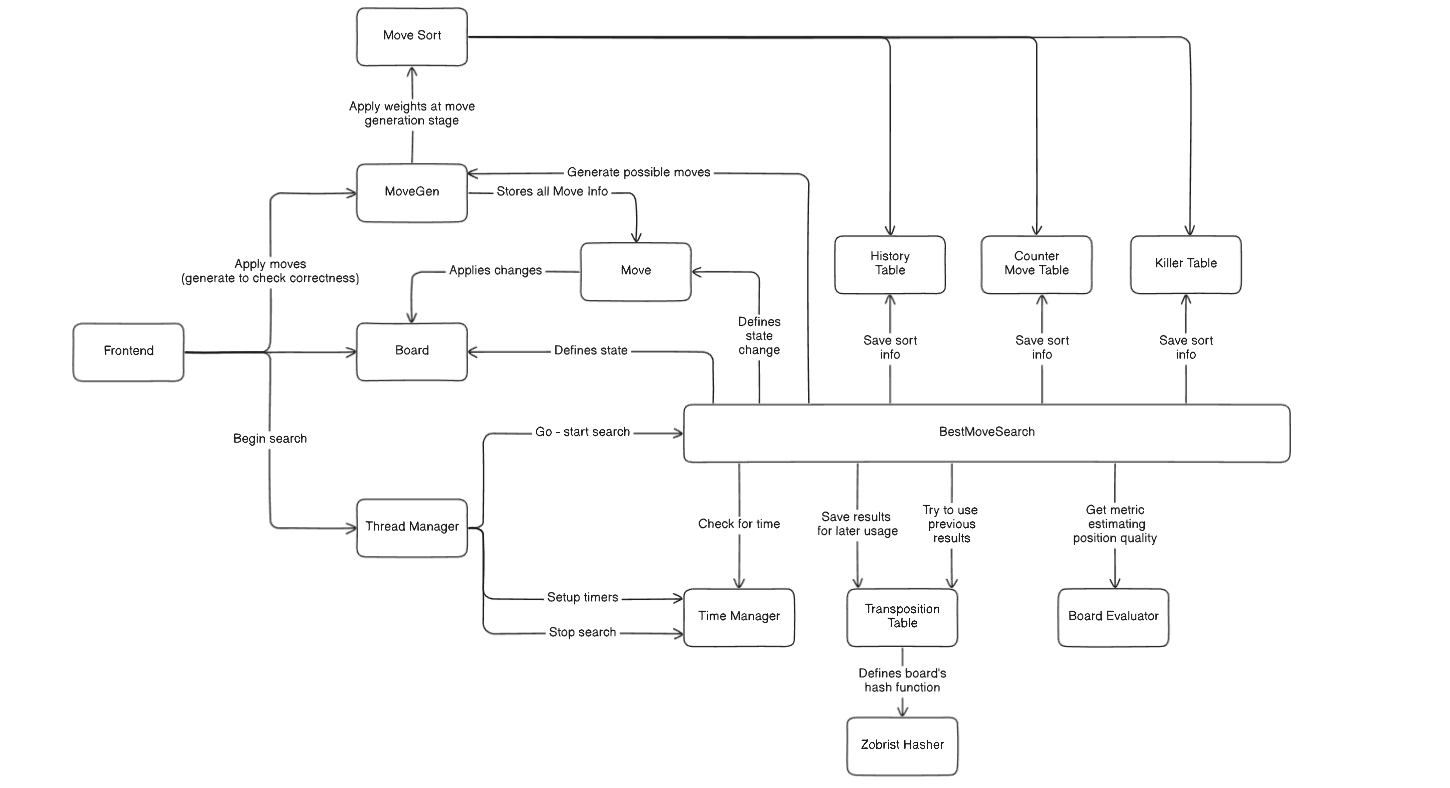
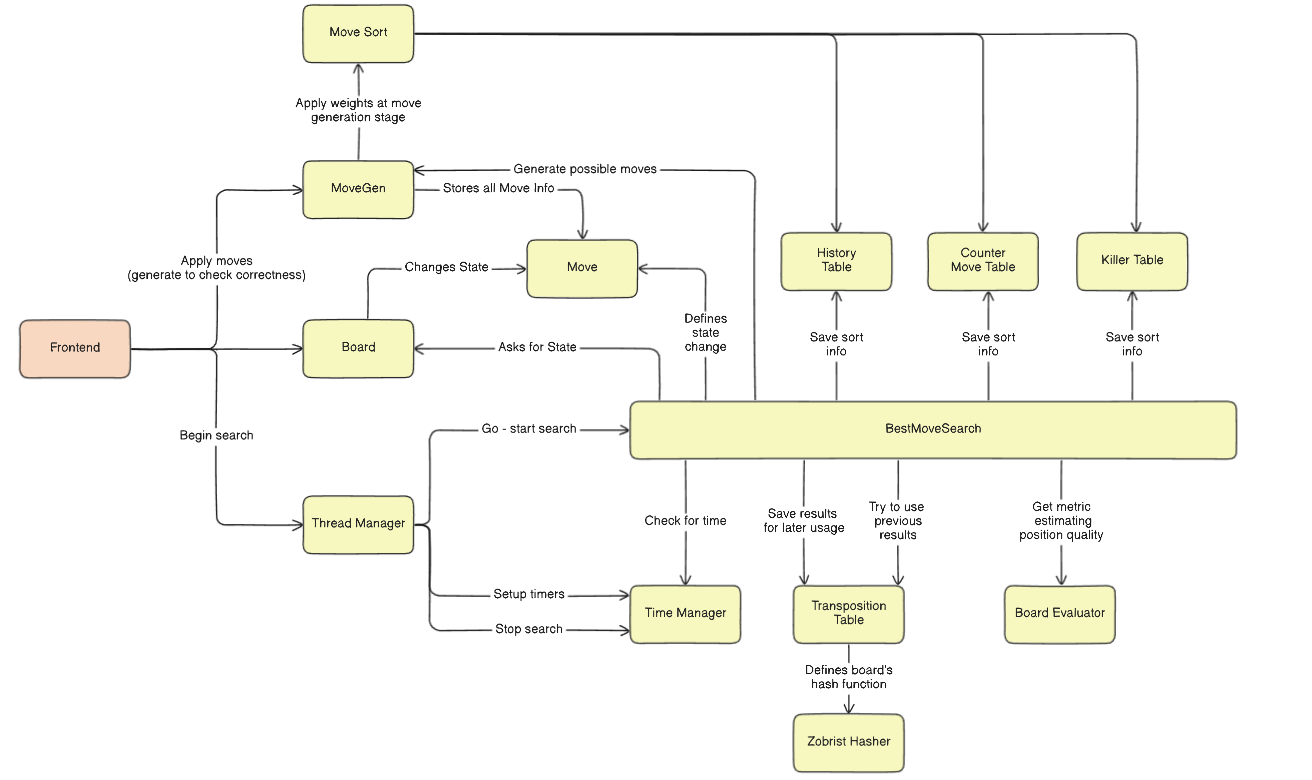
Applied clang-format, updated graphs

diff --git a/src/UCITranslator.cpp b/src/UCITranslator.cpp
@@ -11,8 +11,8 @@
 #include "../include/Search/ZobristHash.h"
 #include "../include/TestsAndDebugging/MoveGenerationTests.h"
 #include "../include/TestsAndDebugging/SearchPerfTester.h"
-#include "../include/ThreadManagement/GameTimeManagerUtils.h"
 #include "../include/TestsAndDebugging/StateReconstructor.h"
+#include "../include/ThreadManagement/GameTimeManagerUtils.h"
 
 UCITranslator::UCICommand UCITranslator::BeginCommandTranslation(std::istream &input)
 {
@@ -37,28 +37,28 @@ UCITranslator::UCICommand UCITranslator::_dispatchCommands(const std::string &bu
 {
     using funcT = UCICommand (UCITranslator::*)(const std::string &);
     static std::unordered_map<std::string, funcT> CommandBuff{
-        {       "uci",          &UCITranslator::_uciResponse},
-        {   "isready",      &UCITranslator::_isReadyResponse},
-        { "setoption",    &UCITranslator::_setoptionResponse},
-        {"ucinewgame",   &UCITranslator::_ucinewgameResponse},
-        {  "position",     &UCITranslator::_positionResponse},
-        {        "go",           &UCITranslator::_goResponse},
-        {      "stop",         &UCITranslator::_stopResponse},
-        {      "quit",         &UCITranslator::_quitResponse},
-        {      "exit",         &UCITranslator::_quitResponse},
-        {      "eval",   &UCITranslator::_evalPositionStatic},
-        {         "d",      &UCITranslator::_displayResponse},
-        {   "display",      &UCITranslator::_displayResponse},
-        {      "disp",      &UCITranslator::_displayResponse},
-        {       "fen",   &UCITranslator::_displayFenResponse},
-        {      "help",  &UCITranslator::_displayHelpResponse},
-        {     "clear",         &UCITranslator::_clearConsole},
-        {     "clean",         &UCITranslator::_clearConsole},
-        {       "cls",         &UCITranslator::_clearConsole},
-        {      "ctpm", &UCITranslator::_calculateTimePerMove}, // Calculate time per move
-        {        "zv",        &UCITranslator::_searchZobrist},
-        { "ponderhit",    &UCITranslator::_ponderhitResponse},
-        {"reconstruct", &UCITranslator::_reconstruct},
+        {        "uci",          &UCITranslator::_uciResponse},
+        {    "isready",      &UCITranslator::_isReadyResponse},
+        {  "setoption",    &UCITranslator::_setoptionResponse},
+        { "ucinewgame",   &UCITranslator::_ucinewgameResponse},
+        {   "position",     &UCITranslator::_positionResponse},
+        {         "go",           &UCITranslator::_goResponse},
+        {       "stop",         &UCITranslator::_stopResponse},
+        {       "quit",         &UCITranslator::_quitResponse},
+        {       "exit",         &UCITranslator::_quitResponse},
+        {       "eval",   &UCITranslator::_evalPositionStatic},
+        {          "d",      &UCITranslator::_displayResponse},
+        {    "display",      &UCITranslator::_displayResponse},
+        {       "disp",      &UCITranslator::_displayResponse},
+        {        "fen",   &UCITranslator::_displayFenResponse},
+        {       "help",  &UCITranslator::_displayHelpResponse},
+        {      "clear",         &UCITranslator::_clearConsole},
+        {      "clean",         &UCITranslator::_clearConsole},
+        {        "cls",         &UCITranslator::_clearConsole},
+        {       "ctpm", &UCITranslator::_calculateTimePerMove}, // Calculate time per move
+        {         "zv",        &UCITranslator::_searchZobrist},
+        {  "ponderhit",    &UCITranslator::_ponderhitResponse},
+        {"reconstruct",          &UCITranslator::_reconstruct},
     };
 
     std::string workStr;
@@ -253,8 +253,10 @@ UCITranslator::UCICommand UCITranslator::_displayHelpResponse([[maybe_unused]] c
         "- go searchPerf \"input file \" \"output file \" - runs straight alpha beta pruning performance tests "
         "               on the framework.\n"
         "- reconstruct \"path\" - tries to reconstruct the state of the engine based on given log file on path,"
-        "                         the log file needs to be saved in given format per line: {posix time in ms} | {command}"
-        "                       for example: reconstruct /home/Jlisowskyy/Storage/Checkmate-Chariot-serv/lichess-bot/log.txt_in"
+        "                         the log file needs to be saved in given format per line: {posix time in ms} | "
+        "{command}"
+        "                       for example: reconstruct "
+        "/home/Jlisowskyy/Storage/Checkmate-Chariot-serv/lichess-bot/log.txt_in"
         "- zv \"bitDiffs\" - searches for seed with given bit differences guaranteed.\n\n\n"
         "Where \"depth\" is integer value indicating layers of traversed move tree.\n\n\n"
         "Additional notes:\n"
@@ -547,7 +549,8 @@ size_t UCITranslator::goPonderResponse(const std::string &, size_t pos, GoInfo &
     return pos;
 }
 
-UCITranslator::UCICommand UCITranslator::_reconstruct(const std::string &str) {
+UCITranslator::UCICommand UCITranslator::_reconstruct(const std::string &str)
+{
     /*
      *  The lambda will be executed when reconstruction engine will found "breakpoint" command
      *  inside the given log
@@ -555,7 +558,8 @@ UCITranslator::UCICommand UCITranslator::_reconstruct(const std::string &str) {
      *  For debug usage you should change its content!
      * */
 
-    const auto testLambda = [] (TestSetup& setup){
+    const auto testLambda = [](TestSetup &setup)
+    {
         GlobalLogger.TraceStream << "BREAKPOINT FOUND!" << std::endl;
     };
 

diff --git a/include/TestsAndDebugging/StateReconstructor.h b/include/TestsAndDebugging/StateReconstructor.h
@@ -5,11 +5,11 @@
 #ifndef CHECKMATE_CHARIOT_STATERECONSTRUCTOR_H
 #define CHECKMATE_CHARIOT_STATERECONSTRUCTOR_H
 
-#include <string>
 #include <fstream>
+#include <string>
 
-#include "TestSetup.h"
 #include "../ParseTools.h"
+#include "TestSetup.h"
 
 /*
  *  IMPORTANT NOTE:
@@ -23,19 +23,18 @@
 
 struct StateReconstructor
 {
-// ------------------------------
-// Class creation
-// ------------------------------
+    // ------------------------------
+    // Class creation
+    // ------------------------------
 
-    StateReconstructor() = delete;
+    StateReconstructor()  = delete;
     ~StateReconstructor() = delete;
 
-// ------------------------------
-// Class interaction
-// ------------------------------
+    // ------------------------------
+    // Class interaction
+    // ------------------------------
 
-    template<class debugTool>
-    static bool Reconstruct(debugTool tool, const std::string& inputPath)
+    template <class debugTool> static bool Reconstruct(debugTool tool, const std::string &inputPath)
     {
         std::ifstream stream{inputPath};
 
@@ -47,9 +46,10 @@ struct StateReconstructor
 
         lli prevTime = -1;
         // process log line by line
-        for (std::string line{}; std::getline(stream, line); )
+        for (std::string line{}; std::getline(stream, line);)
         {
-            if (line == "breakpoint") {
+            if (line == "breakpoint")
+            {
                 tool(setup);
 
                 // run given function and wait for input
@@ -58,14 +58,19 @@ struct StateReconstructor
             }
 
             // Parse timings from the file
-            const auto split = ParseTools::Split<[](const int c) -> int {return c == '|';}>(line);
+            const auto split = ParseTools::Split<
+                [](const int c) -> int
+                {
+                    return c == '|';
+                }>(line);
             const auto timeStr = ParseTools::GetTrimmed(split[0]);
 
             // Read timings from the log
             const lli milliseconds = std::stoll(timeStr);
 
             // give the engine some time to process the command
-            if (prevTime != -1){
+            if (prevTime != -1)
+            {
                 const lli diff = milliseconds - prevTime;
 
                 std::this_thread::sleep_for(std::chrono::milliseconds(diff));
@@ -82,15 +87,13 @@ struct StateReconstructor
         return true;
     }
 
-// ------------------------------
-// Private class methods
-// ------------------------------
+    // ------------------------------
+    // Private class methods
+    // ------------------------------
 
-// ------------------------------
-// Class fields
-// ------------------------------
-
-
+    // ------------------------------
+    // Class fields
+    // ------------------------------
 };
 
-#endif //CHECKMATE_CHARIOT_STATERECONSTRUCTOR_H
+#endif // CHECKMATE_CHARIOT_STATERECONSTRUCTOR_H

diff --git a/include/TestsAndDebugging/TestSetup.h b/include/TestsAndDebugging/TestSetup.h
@@ -5,9 +5,9 @@
 #ifndef CHECKMATE_CHARIOT_TESTSETUP_H
 #define CHECKMATE_CHARIOT_TESTSETUP_H
 
+#include <semaphore>
 #include <sstream>
 #include <thread>
-#include <semaphore>
 
 #include "../Engine.h"
 #include "../Interface/UCITranslator.h"
@@ -31,12 +31,10 @@ struct TestSetup
     // Class interaction
     // ------------------------------
 
-    void Initialize()
-    {
-        _translatorThread = new std::thread(_job, &_stream, &_eng, &_sem);
-    }
+    void Initialize() { _translatorThread = new std::thread(_job, &_stream, &_eng, &_sem); }
 
-    void ProcessCommand(const std::string &str) {
+    void ProcessCommand(const std::string &str)
+    {
         _stream.clear();
         _stream << str << std::endl;
         _sem.release();
@@ -53,16 +51,14 @@ struct TestSetup
         }
     }
 
-    Engine& GetEngine(){
-        return _eng;
-    }
+    Engine &GetEngine() { return _eng; }
 
     // ------------------------------
     // Private class methods
     // ------------------------------
 
     private:
-    static void _job(std::stringstream *stream, Engine *engine, std::binary_semaphore* sem)
+    static void _job(std::stringstream *stream, Engine *engine, std::binary_semaphore *sem)
     {
         GameTimeManager::StartTimerAsync();
         engine->Initialize();
@@ -72,7 +68,7 @@ struct TestSetup
         do
         {
             sem->acquire();
-        }while (translator.BeginCommandTranslation(*stream) != UCITranslator::UCICommand::quitCommand);
+        } while (translator.BeginCommandTranslation(*stream) != UCITranslator::UCICommand::quitCommand);
     }
 
     // ------------------------------

diff --git a/src/SearchThreadManager.cpp b/src/SearchThreadManager.cpp
@@ -4,8 +4,8 @@
 
 #include "../include/ThreadManagement/SearchThreadManager.h"
 #include "../include/Search/BestMoveSearch.h"
-#include "../include/ThreadManagement/GameTimeManager.h"
 #include "../include/Search/TranspositionTable.h"
+#include "../include/ThreadManagement/GameTimeManager.h"
 
 #include <format>
 
@@ -91,7 +91,8 @@ void SearchThreadManager::Consolidate()
     WrapTraceMsgInfo("Thread manager consolidated successfully");
 }
 
-void SearchThreadManager::GoWoutThread(const Board &bd, uint16_t age, const GoInfo &info) {
+void SearchThreadManager::GoWoutThread(const Board &bd, uint16_t age, const GoInfo &info)
+{
     static StackType s{};
 
     GameTimeManager::StartSearchManagementAsync(info.timeInfo, static_cast<Color>(bd.MovingColor), bd, age);

diff --git a/src/Engine.cpp b/src/Engine.cpp
@@ -186,9 +186,9 @@ void Engine::Go(GoInfo &info, const std::vector<std::string> &moves)
      * that is to try rescue ourselves and not violate UCI rules we limit the depth to 3 and sets time to 1
      * */
 
-    if (lli& colTime = _board.MovingColor == WHITE ? info.timeInfo.wTime : info.timeInfo.bTime; colTime == 0 )
+    if (lli &colTime = _board.MovingColor == WHITE ? info.timeInfo.wTime : info.timeInfo.bTime; colTime == 0)
     {
-        colTime = 1;
+        colTime    = 1;
         info.depth = std::min(info.depth, 1);
 
         SearchThreadManager::GoWoutThread(_board, _age, info);

diff --git a/include/Interface/UCITranslator.h b/include/Interface/UCITranslator.h
@@ -148,7 +148,7 @@ class UCITranslator
     UCICommand _isReadyResponse([[maybe_unused]] const std::string &);
 
     /* Debug command used to reconstruct engine state from log files */
-    UCICommand _reconstruct(const std::string & str);
+    UCICommand _reconstruct(const std::string &str);
 
     /* "ponderhit" implementation */
     UCICommand _ponderhitResponse([[maybe_unused]] const std::string &)
